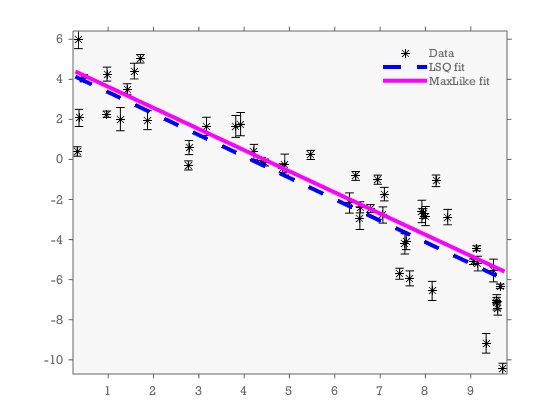
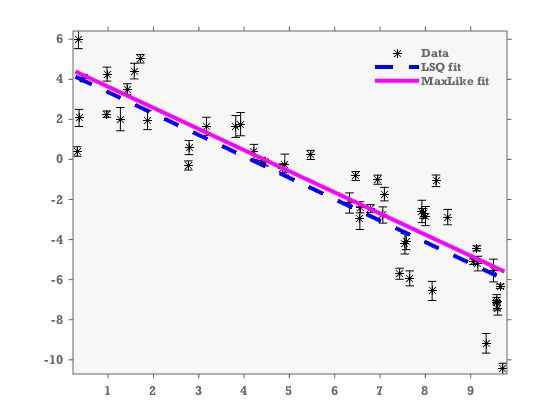
published examples with default template

Changed region(s): [[0.6679, 0.0929, 0.8804, 0.2167], [0.0911, 0.8357, 0.1214, 0.8667], [0.0911, 0.65, 0.1214, 0.681]]

diff --git a/html/rosenbrockbanana.html b/html/rosenbrockbanana.html
@@ -3,16 +3,19 @@
   PUBLIC "-//W3C//DTD HTML 4.01 Transitional//EN">
 <html><head>
       <meta http-equiv="Content-Type" content="text/html; charset=utf-8">
-   <title>rosenbrockbanana</title><meta name="generator" content="MATLAB 8.4"><link rel="schema.DC" href="http://purl.org/dc/elements/1.1/"><meta name="DC.date" content="2015-03-31"><meta name="DC.source" content="rosenbrockbanana.m"><style type="text/css">
+   <!--
+This HTML was auto-generated from MATLAB code.
+To make changes, update the MATLAB code and republish this document.
+      --><title>rosenbrockbanana</title><meta name="generator" content="MATLAB 8.4"><link rel="schema.DC" href="http://purl.org/dc/elements/1.1/"><meta name="DC.date" content="2015-05-04"><meta name="DC.source" content="rosenbrockbanana.m"><style type="text/css">
 html,body,div,span,applet,object,iframe,h1,h2,h3,h4,h5,h6,p,blockquote,pre,a,abbr,acronym,address,big,cite,code,del,dfn,em,font,img,ins,kbd,q,s,samp,small,strike,strong,sub,sup,tt,var,b,u,i,center,dl,dt,dd,ol,ul,li,fieldset,form,label,legend,table,caption,tbody,tfoot,thead,tr,th,td{margin:0;padding:0;border:0;outline:0;font-size:100%;vertical-align:baseline;background:transparent}body{line-height:1}ol,ul{list-style:none}blockquote,q{quotes:none}blockquote:before,blockquote:after,q:before,q:after{content:'';content:none}:focus{outine:0}ins{text-decoration:none}del{text-decoration:line-through}table{border-collapse:collapse;border-spacing:0}
 
 html { min-height:100%; margin-bottom:1px; }
-html body { height:100%; margin:0px; font-family:'Roboto Slab', Rockwell, serif; font-size:12px; color:#222; line-height:110%; background:#fff none; overflow-y:scroll; }
+html body { height:100%; margin:0px; font-family:Arial, Helvetica, sans-serif; font-size:10px; color:#000; line-height:140%; background:#fff none; overflow-y:scroll; }
 html body td { vertical-align:top; text-align:left; }
 
-h1 { padding:0px; margin:0px 0px 25px; font-family:Rockwell, 'Roboto Slab', serif; font-size:1.5em; color:#d55000; line-height:100%; font-weight:normal; }
-h2 { padding:0px; margin:0px 0px 8px; font-family:Rockwell, 'Roboto Slab', serif; font-size:1.2em; color:#000; font-weight:bold; line-height:140%; border-bottom:1px solid #d6d4d4; display:block; }
-h3 { padding:0px; margin:0px 0px 5px; font-family:Rockwell, 'Roboto Slab', serif; font-size:1.1em; color:#000; font-weight:bold; line-height:140%; }
+h1 { padding:0px; margin:0px 0px 25px; font-family:Arial, Helvetica, sans-serif; font-size:1.5em; color:#d55000; line-height:100%; font-weight:normal; }
+h2 { padding:0px; margin:0px 0px 8px; font-family:Arial, Helvetica, sans-serif; font-size:1.2em; color:#000; font-weight:bold; line-height:140%; border-bottom:1px solid #d6d4d4; display:block; }
+h3 { padding:0px; margin:0px 0px 5px; font-family:Arial, Helvetica, sans-serif; font-size:1.1em; color:#000; font-weight:bold; line-height:140%; }
 
 a { color:#005fce; text-decoration:none; }
 a:hover { color:#005fce; text-decoration:underline; }
@@ -38,8 +41,8 @@ ol li ul li { list-style:square; }
 pre, code { font-size:12px; }
 tt { font-size: 1.2em; }
 pre { margin:0px 0px 20px; }
-pre.codeinput { padding:10px; border:1px solid #d3d3d3; background:#f7f7f7; line-height:100%; }
-pre.codeoutput { padding:10px 11px; margin:0px 0px 20px; color:#4c4c4c; line-height:100%;}
+pre.codeinput { padding:10px; border:1px solid #d3d3d3; background:#f7f7f7; }
+pre.codeoutput { padding:10px 11px; margin:0px 0px 20px; color:#4c4c4c; }
 pre.error { color:red; }
 
 @media print { pre.codeinput, pre.codeoutput { word-wrap:break-word; width:100%; } }
@@ -63,7 +66,7 @@ table td { padding:7px 5px; text-align:left; vertical-align:top; border:1px soli
 
 
 
-  </style><link href="http://fonts.googleapis.com/css?family=Roboto+Slab&amp;subset=latin,greek-ext,greek,latin-ext" rel="stylesheet" type="text/css"></head><body><div class="content"><h2>The MCMC hammer<a name="1"></a></h2><p>GWMCMC is an implementation of the Goodman and Weare 2010 Affine invariant ensemble Markov Chain Monte Carlo (MCMC) sampler. MCMC sampling enables bayesian inference. The problem with many traditional MCMC samplers is that they can have slow convergence for badly scaled problems, and that it is difficult to optimize the random walk for high-dimensional problems. This is where the GW-algorithm really excels as it is affine invariant. It can achieve much better convergence on badly scaled problems. It is much simpler to get to work straight out of the box, and for that reason it truly deserves to be called the MCMC hammer.</p><p>See also: <a href="http://astrobites.org/2012/02/20/code-you-can-use-the-mcmc-hammer/">http://astrobites.org/2012/02/20/code-you-can-use-the-mcmc-hammer/</a></p><pre class="codeinput">addpath <span class="string">..</span> <span class="comment">%first we add the path of the toolbox folder</span>
+  </style></head><body><div class="content"><h2>Contents</h2><div><ul><li><a href="#1">The MCMC hammer</a></li><li><a href="#2">Rosenbrock: A badly scaled example</a></li><li><a href="#3">Apply the MCMC hammer:</a></li><li><a href="#4">References:</a></li></ul></div><h2>The MCMC hammer<a name="1"></a></h2><p>GWMCMC is an implementation of the Goodman and Weare 2010 Affine invariant ensemble Markov Chain Monte Carlo (MCMC) sampler. MCMC sampling enables bayesian inference. The problem with many traditional MCMC samplers is that they can have slow convergence for badly scaled problems, and that it is difficult to optimize the random walk for high-dimensional problems. This is where the GW-algorithm really excels as it is affine invariant. It can achieve much better convergence on badly scaled problems. It is much simpler to get to work straight out of the box, and for that reason it truly deserves to be called the MCMC hammer.</p><p>See also: <a href="http://astrobites.org/2012/02/20/code-you-can-use-the-mcmc-hammer/">http://astrobites.org/2012/02/20/code-you-can-use-the-mcmc-hammer/</a></p><pre class="codeinput">addpath <span class="string">..</span> <span class="comment">%first we add the path of the toolbox folder</span>
 </pre><h2>Rosenbrock: A badly scaled example<a name="2"></a></h2><p>A classical difficult low dimensional problem is the rosenbrock density. It is defined by the following log-probability function:</p><pre class="codeinput">logPfun=@(m) -(100*(m(2,:)-m(1,:).^2).^2 +(1-m(1,:)).^2)/20;
 
 <span class="comment">%lets visualize it:</span>
@@ -96,7 +99,7 @@ plot(models(1,:),models(2,:),<span class="string">'k.'</span>)
 
 legend(<span class="string">'Rosenbrock'</span>,<span class="string">'GWMCMC samples'</span>,<span class="string">'location'</span>,<span class="string">'northwest'</span>)
 </pre><pre class="codeoutput">
-Elapsed time is 2.158804 seconds.
+Elapsed time is 2.260942 seconds.
 </pre><img vspace="5" hspace="5" src="rosenbrockbanana_02.png" alt=""> <h2>References:<a name="4"></a></h2><div><ul><li>Goodman &amp; Weare (2010), Ensemble Samplers With Affine Invariance, Comm. App. Math. Comp. Sci., Vol. 5, No. 1, 65&#8211;80</li><li>Foreman-Mackey, Hogg, Lang, Goodman (2013), emcee: The MCMC Hammer, arXiv:1202.3665</li></ul></div><p>-Aslak Grinsted 2015</p><p class="footer"><br><a href="http://www.mathworks.com/products/matlab/">Published with MATLAB&reg; R2014b</a><br></p></div><!--
 ##### SOURCE BEGIN #####
 %% The MCMC hammer

diff --git a/html/behappy.html b/html/behappy.html
@@ -1,0 +1,123 @@
+
+<!DOCTYPE html
+  PUBLIC "-//W3C//DTD HTML 4.01 Transitional//EN">
+<html><head>
+      <meta http-equiv="Content-Type" content="text/html; charset=utf-8">
+   <!--
+This HTML was auto-generated from MATLAB code.
+To make changes, update the MATLAB code and republish this document.
+      --><title>behappy</title><meta name="generator" content="MATLAB 8.4"><link rel="schema.DC" href="http://purl.org/dc/elements/1.1/"><meta name="DC.date" content="2015-05-04"><meta name="DC.source" content="behappy.m"><style type="text/css">
+html,body,div,span,applet,object,iframe,h1,h2,h3,h4,h5,h6,p,blockquote,pre,a,abbr,acronym,address,big,cite,code,del,dfn,em,font,img,ins,kbd,q,s,samp,small,strike,strong,sub,sup,tt,var,b,u,i,center,dl,dt,dd,ol,ul,li,fieldset,form,label,legend,table,caption,tbody,tfoot,thead,tr,th,td{margin:0;padding:0;border:0;outline:0;font-size:100%;vertical-align:baseline;background:transparent}body{line-height:1}ol,ul{list-style:none}blockquote,q{quotes:none}blockquote:before,blockquote:after,q:before,q:after{content:'';content:none}:focus{outine:0}ins{text-decoration:none}del{text-decoration:line-through}table{border-collapse:collapse;border-spacing:0}
+
+html { min-height:100%; margin-bottom:1px; }
+html body { height:100%; margin:0px; font-family:Arial, Helvetica, sans-serif; font-size:10px; color:#000; line-height:140%; background:#fff none; overflow-y:scroll; }
+html body td { vertical-align:top; text-align:left; }
+
+h1 { padding:0px; margin:0px 0px 25px; font-family:Arial, Helvetica, sans-serif; font-size:1.5em; color:#d55000; line-height:100%; font-weight:normal; }
+h2 { padding:0px; margin:0px 0px 8px; font-family:Arial, Helvetica, sans-serif; font-size:1.2em; color:#000; font-weight:bold; line-height:140%; border-bottom:1px solid #d6d4d4; display:block; }
+h3 { padding:0px; margin:0px 0px 5px; font-family:Arial, Helvetica, sans-serif; font-size:1.1em; color:#000; font-weight:bold; line-height:140%; }
+
+a { color:#005fce; text-decoration:none; }
+a:hover { color:#005fce; text-decoration:underline; }
+a:visited { color:#004aa0; text-decoration:none; }
+
+p { padding:0px; margin:0px 0px 20px; }
+img { padding:0px; margin:0px 0px 20px; border:none; }
+p img, pre img, tt img, li img, h1 img, h2 img { margin-bottom:0px; } 
+
+ul { padding:0px; margin:0px 0px 20px 23px; list-style:square; }
+ul li { padding:0px; margin:0px 0px 7px 0px; }
+ul li ul { padding:5px 0px 0px; margin:0px 0px 7px 23px; }
+ul li ol li { list-style:decimal; }
+ol { padding:0px; margin:0px 0px 20px 0px; list-style:decimal; }
+ol li { padding:0px; margin:0px 0px 7px 23px; list-style-type:decimal; }
+ol li ol { padding:5px 0px 0px; margin:0px 0px 7px 0px; }
+ol li ol li { list-style-type:lower-alpha; }
+ol li ul { padding-top:7px; }
+ol li ul li { list-style:square; }
+
+.content { font-size:1.2em; line-height:140%; padding: 20px; }
+
+pre, code { font-size:12px; }
+tt { font-size: 1.2em; }
+pre { margin:0px 0px 20px; }
+pre.codeinput { padding:10px; border:1px solid #d3d3d3; background:#f7f7f7; }
+pre.codeoutput { padding:10px 11px; margin:0px 0px 20px; color:#4c4c4c; }
+pre.error { color:red; }
+
+@media print { pre.codeinput, pre.codeoutput { word-wrap:break-word; width:100%; } }
+
+span.keyword { color:#0000FF }
+span.comment { color:#228B22 }
+span.string { color:#A020F0 }
+span.untermstring { color:#B20000 }
+span.syscmd { color:#B28C00 }
+
+.footer { width:auto; padding:10px 0px; margin:25px 0px 0px; border-top:1px dotted #878787; font-size:0.8em; line-height:140%; font-style:italic; color:#878787; text-align:left; float:none; }
+.footer p { margin:0px; }
+.footer a { color:#878787; }
+.footer a:hover { color:#878787; text-decoration:underline; }
+.footer a:visited { color:#878787; }
+
+table th { padding:7px 5px; text-align:left; vertical-align:middle; border: 1px solid #d6d4d4; font-weight:bold; }
+table td { padding:7px 5px; text-align:left; vertical-align:top; border:1px solid #d6d4d4; }
+
+
+
+
+
+  </style></head><body><div class="content"><h2>Contents</h2><div><ul><li><a href="#1">Don't worry, be Happy</a></li><li><a href="#2">Smiley face equation</a></li><li><a href="#3">Draw samples from the distribution using GWMCMC</a></li></ul></div><h2>Don't worry, be Happy<a name="1"></a></h2><p>Sampling a smiley face likelihood function.</p><pre class="codeinput">addpath <span class="string">..</span>  <span class="comment">%first we add the path of the toolbox folder</span>
+</pre><h2>Smiley face equation<a name="2"></a></h2><p>Formulate a likelihood function inspired by an equation of a smiley face.</p><p>Source Michael Borcherds: https://twitter.com/mike_geogebra/status/135391208703930369</p><pre class="codeinput">logHappiness=@(m)1-exp(1e-4*((m(1)^4+2*m(1)^2*m(2)^2-0.3*m(1)^2*m(2)-40.75*m(1)^2+m(2)^4-m(2)^3-40.75*m(2)^2+25*m(2)+393.75)*((m(1)+3)^2+(m(2)-7)^2-1)*((m(1)-3)^2+(m(2)-7)^2-1)*(m(1)^2+(m(2)-2)^2-64)));
+</pre><h2>Draw samples from the distribution using GWMCMC<a name="3"></a></h2><p>Now we apply the MCMC hammer to draw samples from the logHappiness distribution.</p><pre class="codeinput">[models,logP]=gwmcmc(randn(2,100),logHappiness,100000,<span class="string">'ThinChain'</span>,2);
+models(:,:,1:end*.2)=[];
+models=models(:,:)';
+
+
+plot(models(:,1),models(:,2),<span class="string">'r.'</span>);
+
+axis <span class="string">equal</span> <span class="string">off</span>
+
+
+title(<span class="string">'GWMCMC says: "Don''t Worry, Be Happy!"'</span>)
+
+
+<span class="comment">% Bobby McFerrin on youtube: https://www.youtube.com/watch?v=d-diB65scQU</span>
+</pre><pre class="codeoutput">
+</pre><img vspace="5" hspace="5" src="behappy_01.png" alt=""> <p class="footer"><br><a href="http://www.mathworks.com/products/matlab/">Published with MATLAB&reg; R2014b</a><br></p></div><!--
+##### SOURCE BEGIN #####
+%% Don't worry, be Happy
+%
+% Sampling a smiley face likelihood function.
+% 
+
+addpath ..  %first we add the path of the toolbox folder 
+
+%% Smiley face equation
+% Formulate a likelihood function inspired by an equation of a smiley face.
+%  
+% Source Michael Borcherds: https://twitter.com/mike_geogebra/status/135391208703930369
+
+logHappiness=@(m)1-exp(1e-4*((m(1)^4+2*m(1)^2*m(2)^2-0.3*m(1)^2*m(2)-40.75*m(1)^2+m(2)^4-m(2)^3-40.75*m(2)^2+25*m(2)+393.75)*((m(1)+3)^2+(m(2)-7)^2-1)*((m(1)-3)^2+(m(2)-7)^2-1)*(m(1)^2+(m(2)-2)^2-64)));
+
+
+%% Draw samples from the distribution using GWMCMC
+%
+% Now we apply the MCMC hammer to draw samples from the logHappiness distribution.
+%
+
+[models,logP]=gwmcmc(randn(2,100),logHappiness,100000,'ThinChain',2);
+models(:,:,1:end*.2)=[];
+models=models(:,:)';
+
+
+plot(models(:,1),models(:,2),'r.');
+
+axis equal off 
+
+
+title('GWMCMC says: "Don''t Worry, Be Happy!"')
+
+
+% Bobby McFerrin on youtube: https://www.youtube.com/watch?v=d-diB65scQU
+##### SOURCE END #####
+--></body></html>

diff --git a/html/linefit.html b/html/linefit.html
@@ -3,16 +3,19 @@
   PUBLIC "-//W3C//DTD HTML 4.01 Transitional//EN">
 <html><head>
       <meta http-equiv="Content-Type" content="text/html; charset=utf-8">
-   <title>linefit</title><meta name="generator" content="MATLAB 8.4"><link rel="schema.DC" href="http://purl.org/dc/elements/1.1/"><meta name="DC.date" content="2015-03-31"><meta name="DC.source" content="linefit.m"><style type="text/css">
+   <!--
+This HTML was auto-generated from MATLAB code.
+To make changes, update the MATLAB code and republish this document.
+      --><title>linefit</title><meta name="generator" content="MATLAB 8.4"><link rel="schema.DC" href="http://purl.org/dc/elements/1.1/"><meta name="DC.date" content="2015-05-04"><meta name="DC.source" content="linefit.m"><style type="text/css">
 html,body,div,span,applet,object,iframe,h1,h2,h3,h4,h5,h6,p,blockquote,pre,a,abbr,acronym,address,big,cite,code,del,dfn,em,font,img,ins,kbd,q,s,samp,small,strike,strong,sub,sup,tt,var,b,u,i,center,dl,dt,dd,ol,ul,li,fieldset,form,label,legend,table,caption,tbody,tfoot,thead,tr,th,td{margin:0;padding:0;border:0;outline:0;font-size:100%;vertical-align:baseline;background:transparent}body{line-height:1}ol,ul{list-style:none}blockquote,q{quotes:none}blockquote:before,blockquote:after,q:before,q:after{content:'';content:none}:focus{outine:0}ins{text-decoration:none}del{text-decoration:line-through}table{border-collapse:collapse;border-spacing:0}
 
 html { min-height:100%; margin-bottom:1px; }
-html body { height:100%; margin:0px; font-family:'Roboto Slab', Rockwell, serif; font-size:12px; color:#222; line-height:110%; background:#fff none; overflow-y:scroll; }
+html body { height:100%; margin:0px; font-family:Arial, Helvetica, sans-serif; font-size:10px; color:#000; line-height:140%; background:#fff none; overflow-y:scroll; }
 html body td { vertical-align:top; text-align:left; }
 
-h1 { padding:0px; margin:0px 0px 25px; font-family:Rockwell, 'Roboto Slab', serif; font-size:1.5em; color:#d55000; line-height:100%; font-weight:normal; }
-h2 { padding:0px; margin:0px 0px 8px; font-family:Rockwell, 'Roboto Slab', serif; font-size:1.2em; color:#000; font-weight:bold; line-height:140%; border-bottom:1px solid #d6d4d4; display:block; }
-h3 { padding:0px; margin:0px 0px 5px; font-family:Rockwell, 'Roboto Slab', serif; font-size:1.1em; color:#000; font-weight:bold; line-height:140%; }
+h1 { padding:0px; margin:0px 0px 25px; font-family:Arial, Helvetica, sans-serif; font-size:1.5em; color:#d55000; line-height:100%; font-weight:normal; }
+h2 { padding:0px; margin:0px 0px 8px; font-family:Arial, Helvetica, sans-serif; font-size:1.2em; color:#000; font-weight:bold; line-height:140%; border-bottom:1px solid #d6d4d4; display:block; }
+h3 { padding:0px; margin:0px 0px 5px; font-family:Arial, Helvetica, sans-serif; font-size:1.1em; color:#000; font-weight:bold; line-height:140%; }
 
 a { color:#005fce; text-decoration:none; }
 a:hover { color:#005fce; text-decoration:underline; }
@@ -38,8 +41,8 @@ ol li ul li { list-style:square; }
 pre, code { font-size:12px; }
 tt { font-size: 1.2em; }
 pre { margin:0px 0px 20px; }
-pre.codeinput { padding:10px; border:1px solid #d3d3d3; background:#f7f7f7; line-height:100%; }
-pre.codeoutput { padding:10px 11px; margin:0px 0px 20px; color:#4c4c4c; line-height:100%;}
+pre.codeinput { padding:10px; border:1px solid #d3d3d3; background:#f7f7f7; }
+pre.codeoutput { padding:10px 11px; margin:0px 0px 20px; color:#4c4c4c; }
 pre.error { color:red; }
 
 @media print { pre.codeinput, pre.codeoutput { word-wrap:break-word; width:100%; } }
@@ -63,7 +66,7 @@ table td { padding:7px 5px; text-align:left; vertical-align:top; border:1px soli
 
 
 
-  </style><link href="http://fonts.googleapis.com/css?family=Roboto+Slab&amp;subset=latin,greek-ext,greek,latin-ext" rel="stylesheet" type="text/css"></head><body><div class="content"><h2>Fitting a line<a name="1"></a></h2><p>This demo follows the linefit example of EMCEE for python. See full description here: <a href="http://dan.iel.fm/emcee/current/user/line/">http://dan.iel.fm/emcee/current/user/line/</a></p><pre class="codeinput">addpath <span class="string">..</span>  <span class="comment">%first we add the path of the toolbox folder</span>
+  </style></head><body><div class="content"><h2>Contents</h2><div><ul><li><a href="#1">Fitting a line</a></li><li><a href="#2">Generate synthetic data</a></li><li><a href="#3">Least squares fit</a></li><li><a href="#4">Maximum likelihood estimate</a></li><li><a href="#5">prior information</a></li><li><a href="#6">Find the posterior distribution using GWMCMC</a></li></ul></div><h2>Fitting a line<a name="1"></a></h2><p>This demo follows the linefit example of EMCEE for python. See full description here: <a href="http://dan.iel.fm/emcee/current/user/line/">http://dan.iel.fm/emcee/current/user/line/</a></p><pre class="codeinput">addpath <span class="string">..</span>  <span class="comment">%first we add the path of the toolbox folder</span>
 </pre><h2>Generate synthetic data<a name="2"></a></h2><p>First we generate some noisy data which falls on a line. We know the true parameters of the line and the parameters of the noise added to the observations.</p><p>In this surrogate data there are two sources of uncertainty. One source with known variance (yerr), and another multiplicative uncertainty with unknown variance.</p><pre class="codeinput"><span class="comment">% This is the true model parameters used to generate the noise</span>
 m_true = [-0.9594;4.294;log(0.534)]
 
@@ -159,7 +162,7 @@ axis <span class="string">tight</span>
 
 legend(h,<span class="string">'samples from posterior'</span>,<span class="string">'Data'</span>,<span class="string">'GWMCMC median'</span>,<span class="string">'LSQ fit'</span>,<span class="string">'Truth'</span>)
 </pre><pre class="codeoutput">
-Elapsed time is 4.494156 seconds.
+Elapsed time is 4.964901 seconds.
 </pre><img vspace="5" hspace="5" src="linefit_04.png" alt=""> <img vspace="5" hspace="5" src="linefit_05.png" alt=""> <p class="footer"><br><a href="http://www.mathworks.com/products/matlab/">Published with MATLAB&reg; R2014b</a><br></p></div><!--
 ##### SOURCE BEGIN #####
 %% Fitting a line
